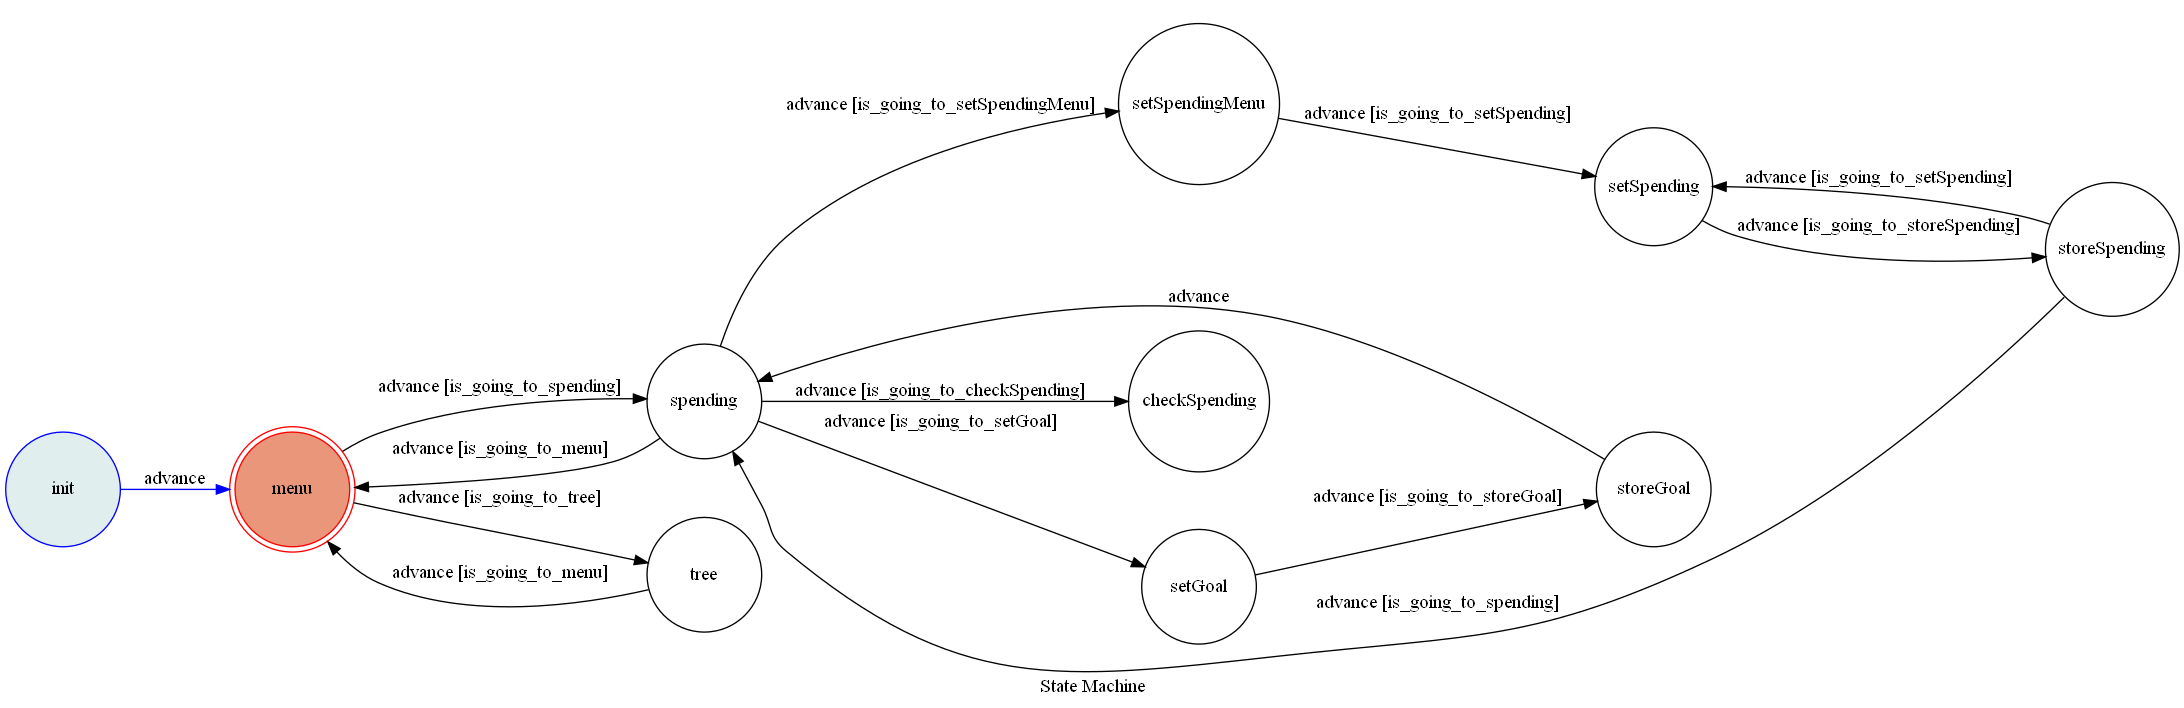
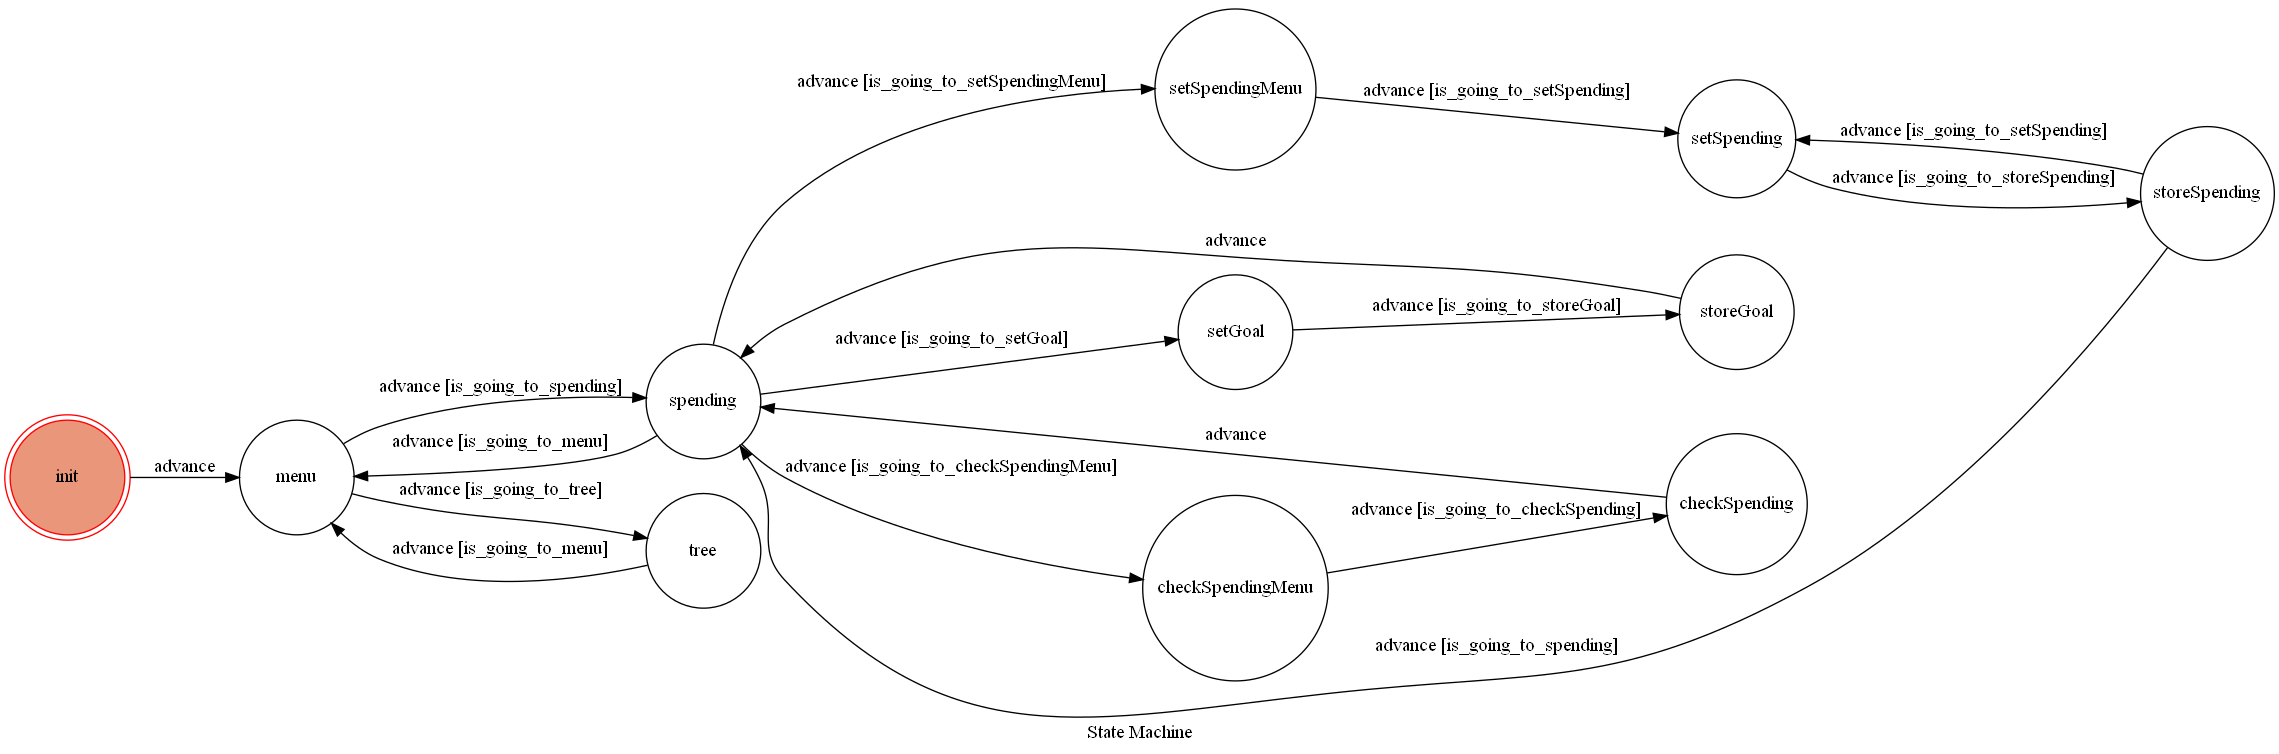
final

diff --git a/fsm.py b/fsm.py
@@ -1,7 +1,9 @@
 import globals
 from transitions.extensions import GraphMachine
 
-from datetime import date
+from datetime import date, datetime
+import random
+import math
 
 from utils import send_text_message, send_button_message, send_multi_mess, send_yes_no_message
 from linebot.models import MessageEvent, TextMessage, TextSendMessage, MessageTemplateAction, TemplateSendMessage, ButtonsTemplate
@@ -80,8 +82,27 @@ class TocMachine(GraphMachine):
         text = event.message.text
         return text.lower() == "go to tree"
 
+    def is_going_to_treeIntro(self, event):
+        text = event.message.text
+        return text.lower() == "go to treeIntro"
+
+    def is_going_to_myCurrentTree(self, event):
+        text = event.message.text
+        return text.lower() == "go to my current tree" or text.lower() == "back to my tree"
+
+    def is_going_to_configInteractWithTree(self, event):
+        text = event.message.text
+        globals.treeAct = text.lower()
+        return text.lower() == "water" or text.lower() == "sing" or text.lower() == "fertilize"
+
+    def is_going_to_interactWithTree(self, event):
+        text = event.message.text
+        return text.lower() == "go to interact"
+
     def on_enter_menu(self, event):
         print("I'm entering menu")
+        if globals.decreaseTreeTime == "":
+            globals.decreaseTreeTime = event.timestamp
         labels = ["植物介面", "記帳介面"]
         texts = ["go to tree", "go to spending"]
         img = "https://as2.ftcdn.net/jpg/03/24/86/31/500_F_324863161_fdTcdogpUbv7gJvpngFxKD89f50NZtD4.jpg"
@@ -141,6 +162,10 @@ class TocMachine(GraphMachine):
 
         reply_token = event.reply_token
         if globals.setToday:
+            if not globals.getPointDate == str(globals.year)+str(globals.month)+str(globals.day):
+                globals.getPointDate = str(globals.year)+str(globals.month)+str(globals.day)
+                print(f"\n\n{globals.getPointDate}\n\n")
+                globals.point += 3
             if event.message.text == "back to set spending":
                 send_text_message(reply_token, f"請輸入下一筆計帳資料\n\n格示範例：\n娛樂 200")
             else :
@@ -332,9 +357,126 @@ class TocMachine(GraphMachine):
 
     def on_enter_tree(self, event):
         print("I'm entering 植物")
-        labels = ["主選單"]
-        texts = ["回到主選單"]
+        labels = ["查看目前植物狀態",  "主選單", ]#"查詢樹種",
+        texts = ["go to my current tree",  "回到主選單", ]#"go to treeIntro",
         img = "https://as1.ftcdn.net/jpg/01/67/72/04/500_F_167720496_af8JnHFQM7QMyIIz31tgp289ukGtlXKB.jpg"
 
         reply_token = event.reply_token
         send_button_message(reply_token, img, "植物界面", "請選擇你想使用的功能", labels, texts)
+
+    def on_enter_myCurrentTree(self, event):
+        img = "https://as1.ftcdn.net/jpg/00/83/50/24/500_F_83502495_xS01iodgg9kq01SjjQUApvWbc6Ty6gwu.jpg"
+        elaHour = math.floor((event.timestamp - globals.decreaseTreeTime) / 12)
+        # if elaHour > 0:
+        #     globals.water -= elaHour
+        #     globals.nutrient -= elaHour
+        #     globals.decreaseTreeTime = event.timestamp
+        message = []
+        # if globals.water <= 0 or globals.nutrient <= 0:
+        #     message.append(TextSendMessage(text=f"經過您這段時間的放置後，小樹成為了一顆枯樹了！真可憐！詳細介紹請至植物選單查看喔。\n同時您得到了一棵新的小樹，一切數值將歸零重新計算，不要再養死了喔。"))
+        #     globals.water = 10
+        #     globals.nutrient = 10
+        #     globals.happy = 0
+        # if globals.water > 30 and globals.nutrient > 30:
+        #     message.append(TextSendMessage(text=f"經過您這段時間的照顧後，小樹成為了一顆大樹了！詳細介紹請至植物選單查看喔。\n同時您得到了一棵新的小樹，一切數值將歸零重新計算。"))
+        #     globals.water = 10
+        #     globals.nutrient = 10
+        #     globals.happy = 0
+        replyStr = f"您目前的小樹水分值為{globals.water}，養分值為{globals.nutrient}，而您共有{globals.point}分可進行消費。\n請注意，水分值和養分值只要有一個歸零，小樹都有可能枯死喔。"
+        
+        message.append(TextSendMessage(text=replyStr))
+        message.append(
+            TemplateSendMessage(
+                alt_text='Buttons template',
+                template=ButtonsTemplate(
+                    title="您的小樹",
+                    text="請選擇行動",
+                    actions=[
+                        MessageTemplateAction(
+                            label="澆水",
+                            text="water"
+                        ),
+                        MessageTemplateAction(
+                            label="施肥",
+                            text="fertilize"
+                        ),
+                        MessageTemplateAction(
+                            label="唱歌",
+                            text="sing"
+                        ),
+                        MessageTemplateAction(
+                            label="回到植物頁面",
+                            text="go to tree"
+                        ),
+                    ]
+                )
+            )
+        )
+        reply_token = event.reply_token
+        send_multi_mess(reply_token, message)
+
+    def on_enter_configInteractWithTree(self, event):
+        replyStr = ""
+        if globals.treeAct == "water":
+            replyStr = f"您確定要花費{globals.treeActPoint[0]}點體力值來替小樹澆水嗎？"
+        elif globals.treeAct == "fertilize":
+            replyStr = f"您確定要花費{globals.treeActPoint[1]}點體力值來替小樹施肥嗎？"
+        elif globals.treeAct == "sing":
+            replyStr = f"您確定要花費{globals.treeActPoint[2]}點體力值來對小樹唱歌嗎？"
+
+        labels = []
+        labels.append("確定")
+        labels.append("取消")
+        texts = []
+        texts.append("go to interact")
+        texts.append("back to my tree")
+        reply_token = event.reply_token
+        send_yes_no_message(reply_token, "系統提示", replyStr, labels, texts)
+
+    def on_enter_interactWithTree(self, event):
+        replyStr = ""
+        if globals.treeAct == "water":
+            if globals.point >= 1:
+                globals.point -= 1
+                temp = random.randint(1, 3)
+                globals.water += temp
+                replyStr = f"你替小樹澆了水，水分值增加{temp}。\n小數現在水分值為{globals.water}"
+        elif globals.treeAct == "fertilize":
+            if globals.point >= 1:
+                globals.point -= 1
+                temp = random.randint(1, 3)
+                globals.nutrient += temp
+                replyStr = f"你替小樹施了肥，養分值增加{temp}。\n小數現在養分值為{globals.nutrient}"
+        elif globals.treeAct == "sing":
+            if globals.point >= 2:
+                globals.point -= 2
+                temp = random.randint(1, 3)
+                globals.happy += temp
+                replyStr = f"你對著小樹唱了歌！不知道小樹聽不聽得懂但總之你很快樂！"
+
+        if replyStr == "":
+            replyStr = f"錯誤！您剩餘的體力點為{globals.point}點，不足進行此行動。"
+        message = []
+        message.append(TextSendMessage(text=replyStr))
+        message.append(
+            TemplateSendMessage(
+                alt_text='Buttons template',
+                template=ButtonsTemplate(
+                    title="回到我的小樹",
+                    text="請點選按鈕以回到我的小樹",
+                    actions=[
+                        MessageTemplateAction(
+                            label="回到我的小樹",
+                            text="go back"
+                        )
+                    ]
+                )
+            )
+        )
+        reply_token = event.reply_token
+        send_multi_mess(reply_token, message)
+        
+    def on_enter_treeIntro(self, event):
+        replyStr = ""
+        reply_token = event.reply_token
+        send_text_message(reply_token, "目前已有的樹種：\n\n普通的樹：\n毫無反應就是一棵樹。\n中規中矩的種法可得。\n\n枯樹：\n曾經是樹，現在已經不是了，只是一堆木材，還不能拿來加工。放置太久會造成的結果\n\n請輸入任意鍵以離開")

diff --git a/app.py b/app.py
@@ -26,7 +26,10 @@ machine = TocMachine(
                                     "setSpending", "storeSpending",
                             "checkSpendingMenu",
                                     "checkSpending",
-                    "tree", ],
+                    "tree", 
+                            "myCurrentTree", "configInteractWithTree", "interactWithTree",
+                            "treeIntro",
+                    ],
     transitions=[
         {
             "trigger": "advance",
@@ -109,6 +112,52 @@ machine = TocMachine(
             "dest": "tree",
             "conditions": "is_going_to_tree",
         },
+                    {
+                        "trigger": "advance",
+                        "source": "tree",
+                        "dest": "myCurrentTree",
+                        "conditions": "is_going_to_myCurrentTree",
+                    },
+                                {
+                                    "trigger": "advance",
+                                    "source": "myCurrentTree",
+                                    "dest": "tree",
+                                    "conditions": "is_going_to_tree",
+                                },
+                                {
+                                    "trigger": "advance",
+                                    "source": "myCurrentTree",
+                                    "dest": "configInteractWithTree",
+                                    "conditions": "is_going_to_configInteractWithTree",
+                                },
+                                            {
+                                                "trigger": "advance",
+                                                "source": "configInteractWithTree",
+                                                "dest": "myCurrentTree",
+                                                "conditions": "is_going_to_myCurrentTree",
+                                            },
+                                            {
+                                                "trigger": "advance",
+                                                "source": "configInteractWithTree",
+                                                "dest": "interactWithTree",
+                                                "conditions": "is_going_to_interactWithTree",
+                                            },
+                                                        {
+                                                            "trigger": "advance",
+                                                            "source": "interactWithTree",
+                                                            "dest": "myCurrentTree",
+                                                        },
+                    {
+                        "trigger": "advance",
+                        "source": "tree",
+                        "dest": "treeIntro",
+                        "conditions": "is_going_to_treeIntro",
+                    },
+                                {
+                                    "trigger": "advance",
+                                    "source": "treeIntro",
+                                    "dest": "tree",
+                                },
         {
             "trigger": "advance",
             "source": "spending",
@@ -183,7 +232,7 @@ def webhook_handler():
         #print(f"\n\ngoal = {globals.goal}\nrecord = {globals.spending}\n\n")
         if response == False:
             if event.message.text == "fsm":
-                send_image(event.reply_token, "https://spendingforest.herokuapp.com/show-fsm")
+                send_image(event.reply_token, "https://i.imgur.com/B8VMEvQ.png")
             else:
                 send_text_message(event.reply_token, "未知的指令，請確認輸入是否正確")
 

diff --git a/globals.py b/globals.py
@@ -9,5 +9,17 @@ def initGlobals():
     spending = [[2020, 12, 27, "娛樂", 20], [2020, 12, 27, "娛樂", 20], [2020, 12, 27, "食物", 6], [2020, 12, 27, "娛樂", 20], [2020, 12, 26, "娛樂", 17],] 
     global pastMonthSpending, pastYearSpending
     pastMonthSpending, pastYearSpending = {}, {}
+    global nutrient, water, point, happy
+    nutrient, water, point, happy = 10, 10, 0, 0
+    global treeAct
+    treeAct = ""
+    global treeActPoint
+    treeActPoint = [1, 1, 2]
+    global getPointDate
+    getPointDate = ""
+    global decreaseTreeTime
+    decreaseTreeTime = 0
+    global treeType
+    treeType = ["枯樹", "普通的樹", "肥樹", "水系樹", "說話樹", "火樹"]
     #global tempSpending
     #tempSpending = [0, 0, 0, 0, 0]
